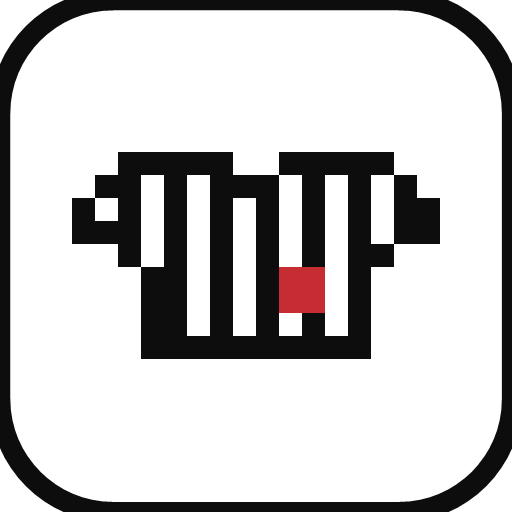
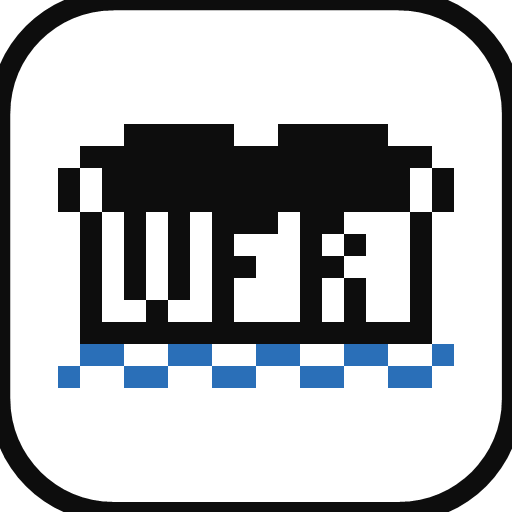
Add files via upload

Changed region(s): [[0.0938, 0.2188, 0.9062, 0.7812]]

diff --git a/index.html b/index.html
@@ -18,23 +18,23 @@
 <link rel="icon" type="image/png" sizes="192x192" href="icon-192.png">
 <link rel="icon" type="image/png" sizes="512x512" href="icon-512.png">
 <link rel="apple-touch-icon" sizes="180x180" href="apple-touch-icon.png">
-<link rel="canonical" href="https://nosz.github.io/vfrheilbronn/">
+<link rel="canonical" href="https://nosz.github.io/vfr-heilbronn/">
 <meta property="og:type" content="website">
 <meta property="og:site_name" content="Stadtclub-Quiz">
 <meta property="og:title" content="VfR Stadtclub-Quiz von Thomas & Nobbe">
 <meta property="og:description" content="DE: 7 Spieltage, Zertifikate, Humor. EN: 7 matchdays, certificates, fun. SCHWÄB: 7 Spieltag, Zertifikat, Gaudi.">
-<meta property="og:url" content="https://nosz.github.io/vfrheilbronn/">
-<meta property="og:image" content="https://nosz.github.io/vfrheilbronn/vfrheilbronn_vorschau.jpg?v=1">
+<meta property="og:url" content="https://nosz.github.io/vfr-heilbronn/">
+<meta property="og:image" content="https://nosz.github.io/vfr-heilbronn/vfrheilbronn_vorschau.jpg?v=2">
 <meta property="og:image:type" content="image/jpeg">
 <meta property="og:image:width" content="1200">
 <meta property="og:image:height" content="630">
-<meta property="og:image:alt" content="Stadtclub-Quiz: schwarz-weißes Trikot, Fußball und Sterne. Was weißt du über den VfR Heilbronn? What do you know about VfR Heilbronn? Was woisch du iber da VfR Hoilbronn?">
+<meta property="og:image:alt" content="Stadtclub-Quiz: schwarz-weißes VFR-Trikot, Käthchen mit Fußball und Neckar. Was weißt du über den VfR Heilbronn? What do you know about VfR Heilbronn? Was woisch du iber da VfR Hoilbronn?">
 <meta property="og:locale" content="de_DE">
 <meta property="og:locale:alternate" content="en_GB">
 <meta name="twitter:card" content="summary_large_image">
 <meta name="twitter:title" content="VfR Stadtclub-Quiz von Thomas & Nobbe">
 <meta name="twitter:description" content="DE: 7 Spieltage, Zertifikate, Humor. EN: 7 matchdays, certificates, fun. SCHWÄB: 7 Spieltag, Zertifikat, Gaudi.">
-<meta name="twitter:image" content="https://nosz.github.io/vfrheilbronn/vfrheilbronn_vorschau.jpg?v=1">
+<meta name="twitter:image" content="https://nosz.github.io/vfr-heilbronn/vfrheilbronn_vorschau.jpg?v=2">
 <style>
 :root{
   --red:#c62d33;--red-d:#1a1a1a;--red-l:#f0f0f0;--herobg:linear-gradient(135deg,#ececec,#d9d9d9);

diff --git a/sw.js b/sw.js
@@ -1,5 +1,5 @@
 /* Stadtclub-Quiz - Service Worker. VERSION muss mit VERSION in index.html uebereinstimmen. */
-const VERSION = "1.0.0";
+const VERSION = "1.0.1";
 const CACHE = "vfr-stadtclub-" + VERSION;
 const CORE = ["./", "index.html", "manifest.webmanifest"];
 const OPTIONAL = ["favicon.png", "favicon.svg", "apple-touch-icon.png", "icon-192.png", "icon-512.png", "icon-maskable-512.png", "vfrheilbronn_vorschau.jpg"];

diff --git a/README.md b/README.md
@@ -1,6 +1,6 @@
-**⚽ Live ansehen: [https://nosz.github.io/vfrheilbronn](https://nosz.github.io/vfrheilbronn)**
+**⚽ Live ansehen: [https://nosz.github.io/vfr-heilbronn](https://nosz.github.io/vfr-heilbronn)**
 
-[![Stadtclub-Quiz: Was weißt du über den VfR Heilbronn? / What do you know about VfR Heilbronn? / Was woisch du iber da VfR Hoilbronn?](vfrheilbronn_vorschau.jpg)](https://nosz.github.io/vfrheilbronn)
+[![Stadtclub-Quiz: Was weißt du über den VfR Heilbronn? / What do you know about VfR Heilbronn? / Was woisch du iber da VfR Hoilbronn?](vfrheilbronn_vorschau.jpg)](https://nosz.github.io/vfr-heilbronn)
 
 # VFRHEILBRONN: Stadtclub-Quiz
 
@@ -8,7 +8,7 @@
 
 **Datei:** `index.html` (eine Datei, offline lauffähig, Version 1.0.1, Stand 14.10.2026). Einfach im Browser öffnen oder auf einem Webserver ablegen.
 
-> **Veröffentlichung (Annahme):** Der Name des GitHub-Repositories wurde noch nicht genannt. Angenommen ist `vfrheilbronn` unter dem Benutzer `nosz`, also `https://nosz.github.io/vfrheilbronn/`. Heißt das Repository anders, die Adresse in `index.html` (canonical, og:url, og:image, twitter:image) und in dieser README ersetzen. Alle Dateien der Liste unten ins Hauptverzeichnis legen (ohne Unterordner), GitHub Pages auf den Hauptzweig stellen.
+> **Veröffentlichung:** GitHub-Repository `vfr-heilbronn` unter dem Benutzer `nosz`, also `https://nosz.github.io/vfr-heilbronn/`. Alle Dateien (inklusive Icons im Hauptordner) gehören direkt in die Wurzel des Repositories.
 
 ## Inhalt
 Fan-Quiz mit 7 Spieltagen, viel Humor, Zertifikaten und Personalisierung, in **Deutsch, Englisch und Schwäbisch** (Umschalter oben, wird gespeichert).
